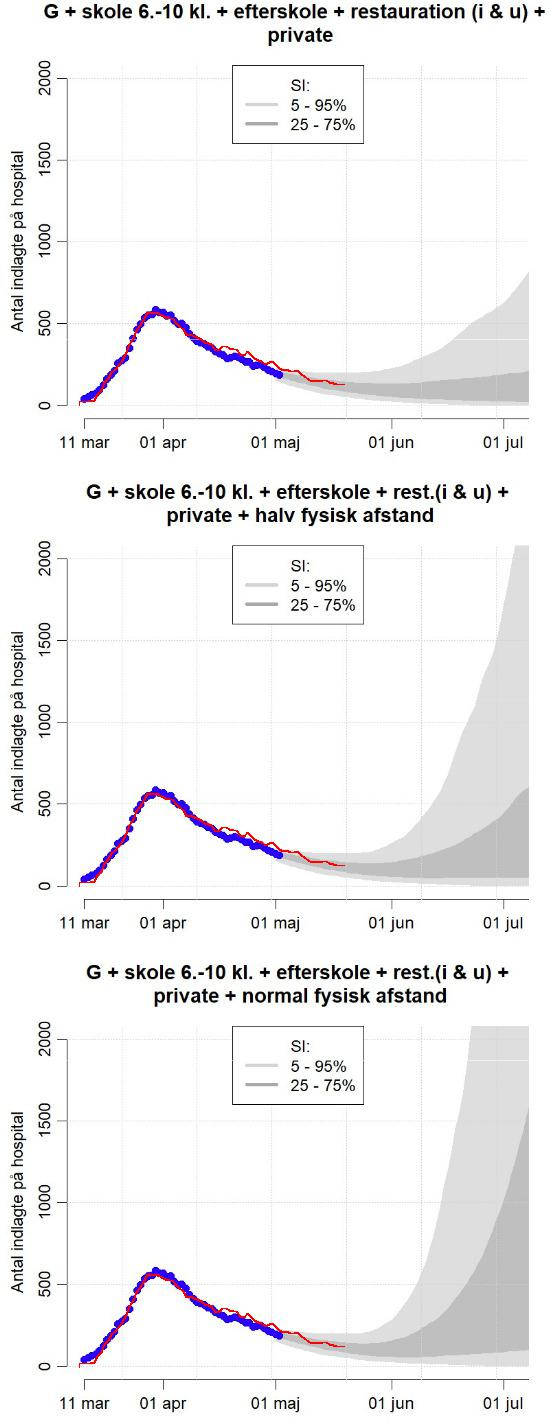
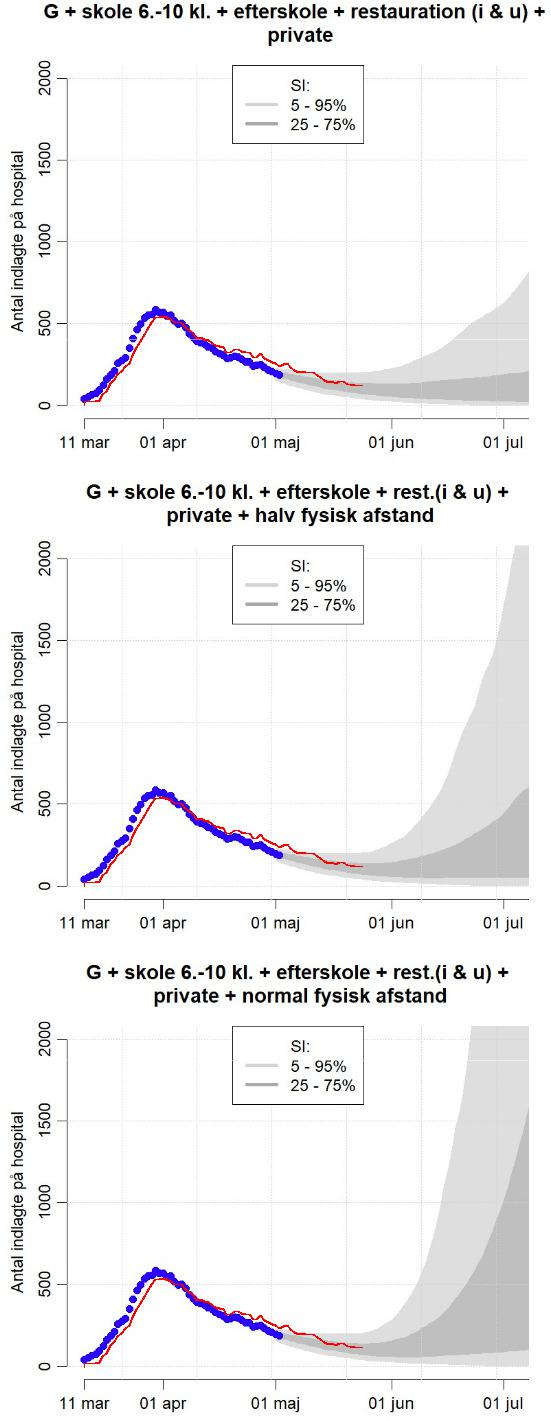
Undo "fixing". It seems correct to match axis and not "blue dots"

diff --git a/py/overlay.py b/py/overlay.py
@@ -14,8 +14,8 @@ def add_line(img, x0, y0, x1, y1):
   cc, rr, val = draw.line_aa(int(y0), int(x0), int(y1), int(x1))
   img[cc, rr] = (255, 0, 0)
 
-fix_x = 0.95
-fix_y = 1.05
+fix_x = 1
+fix_y = 1
 
 # coordinate for (0, 0) on the plot
 start_x = 84
